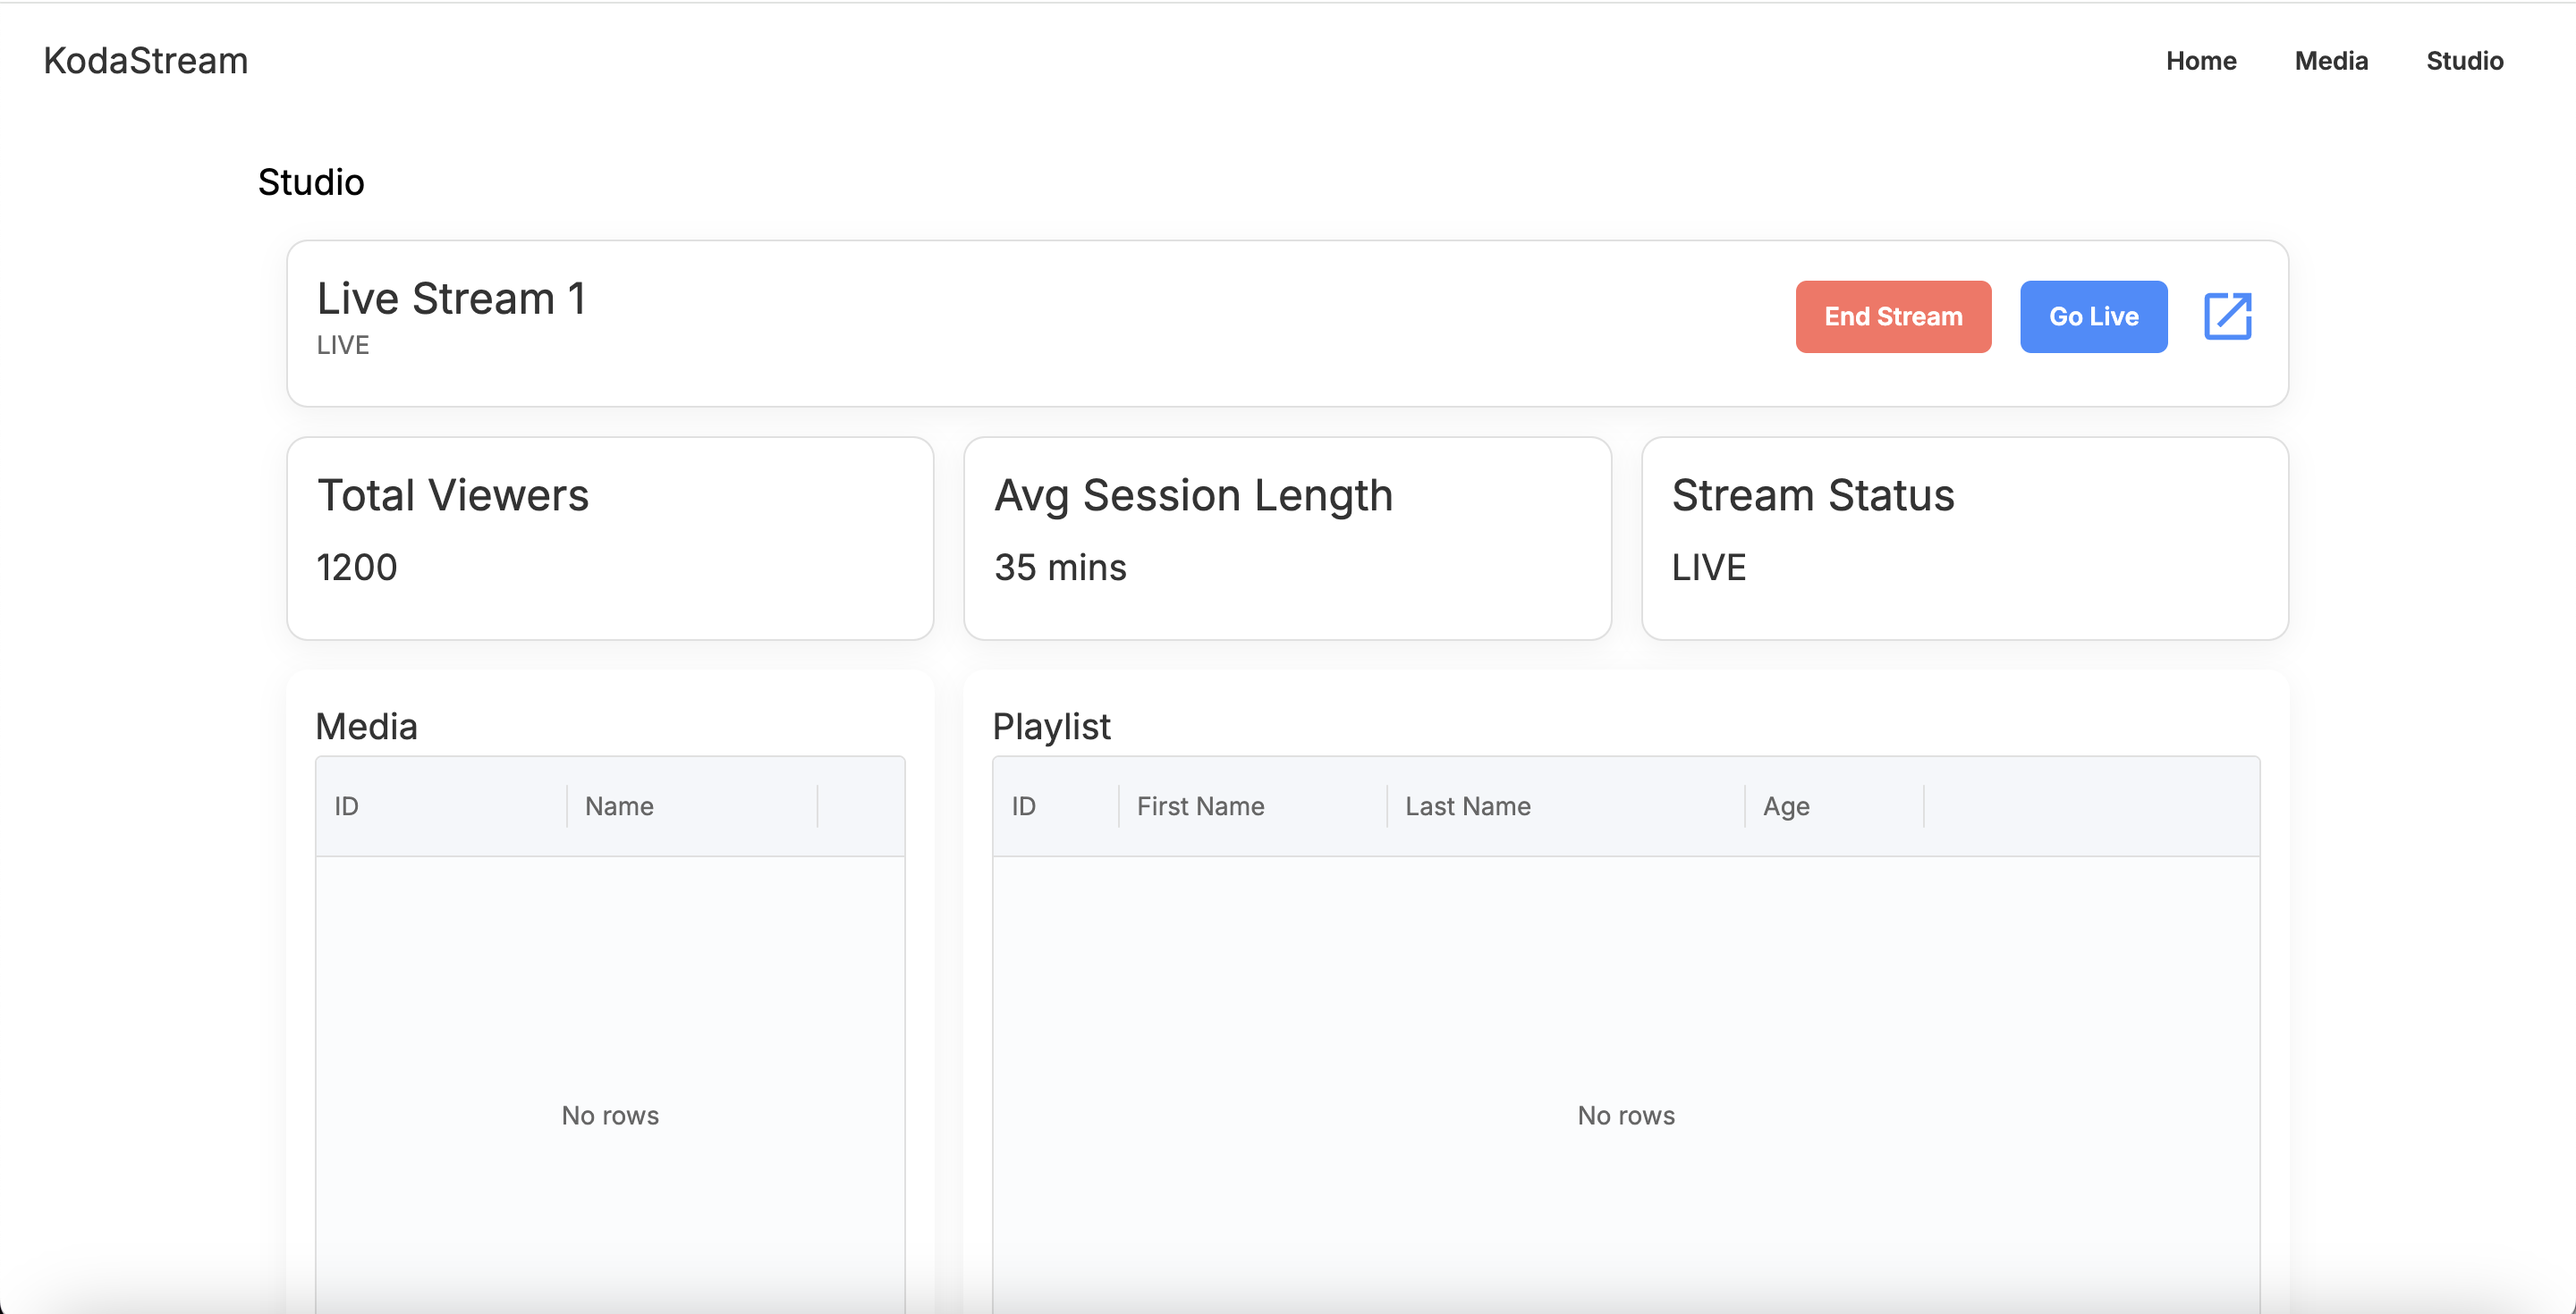
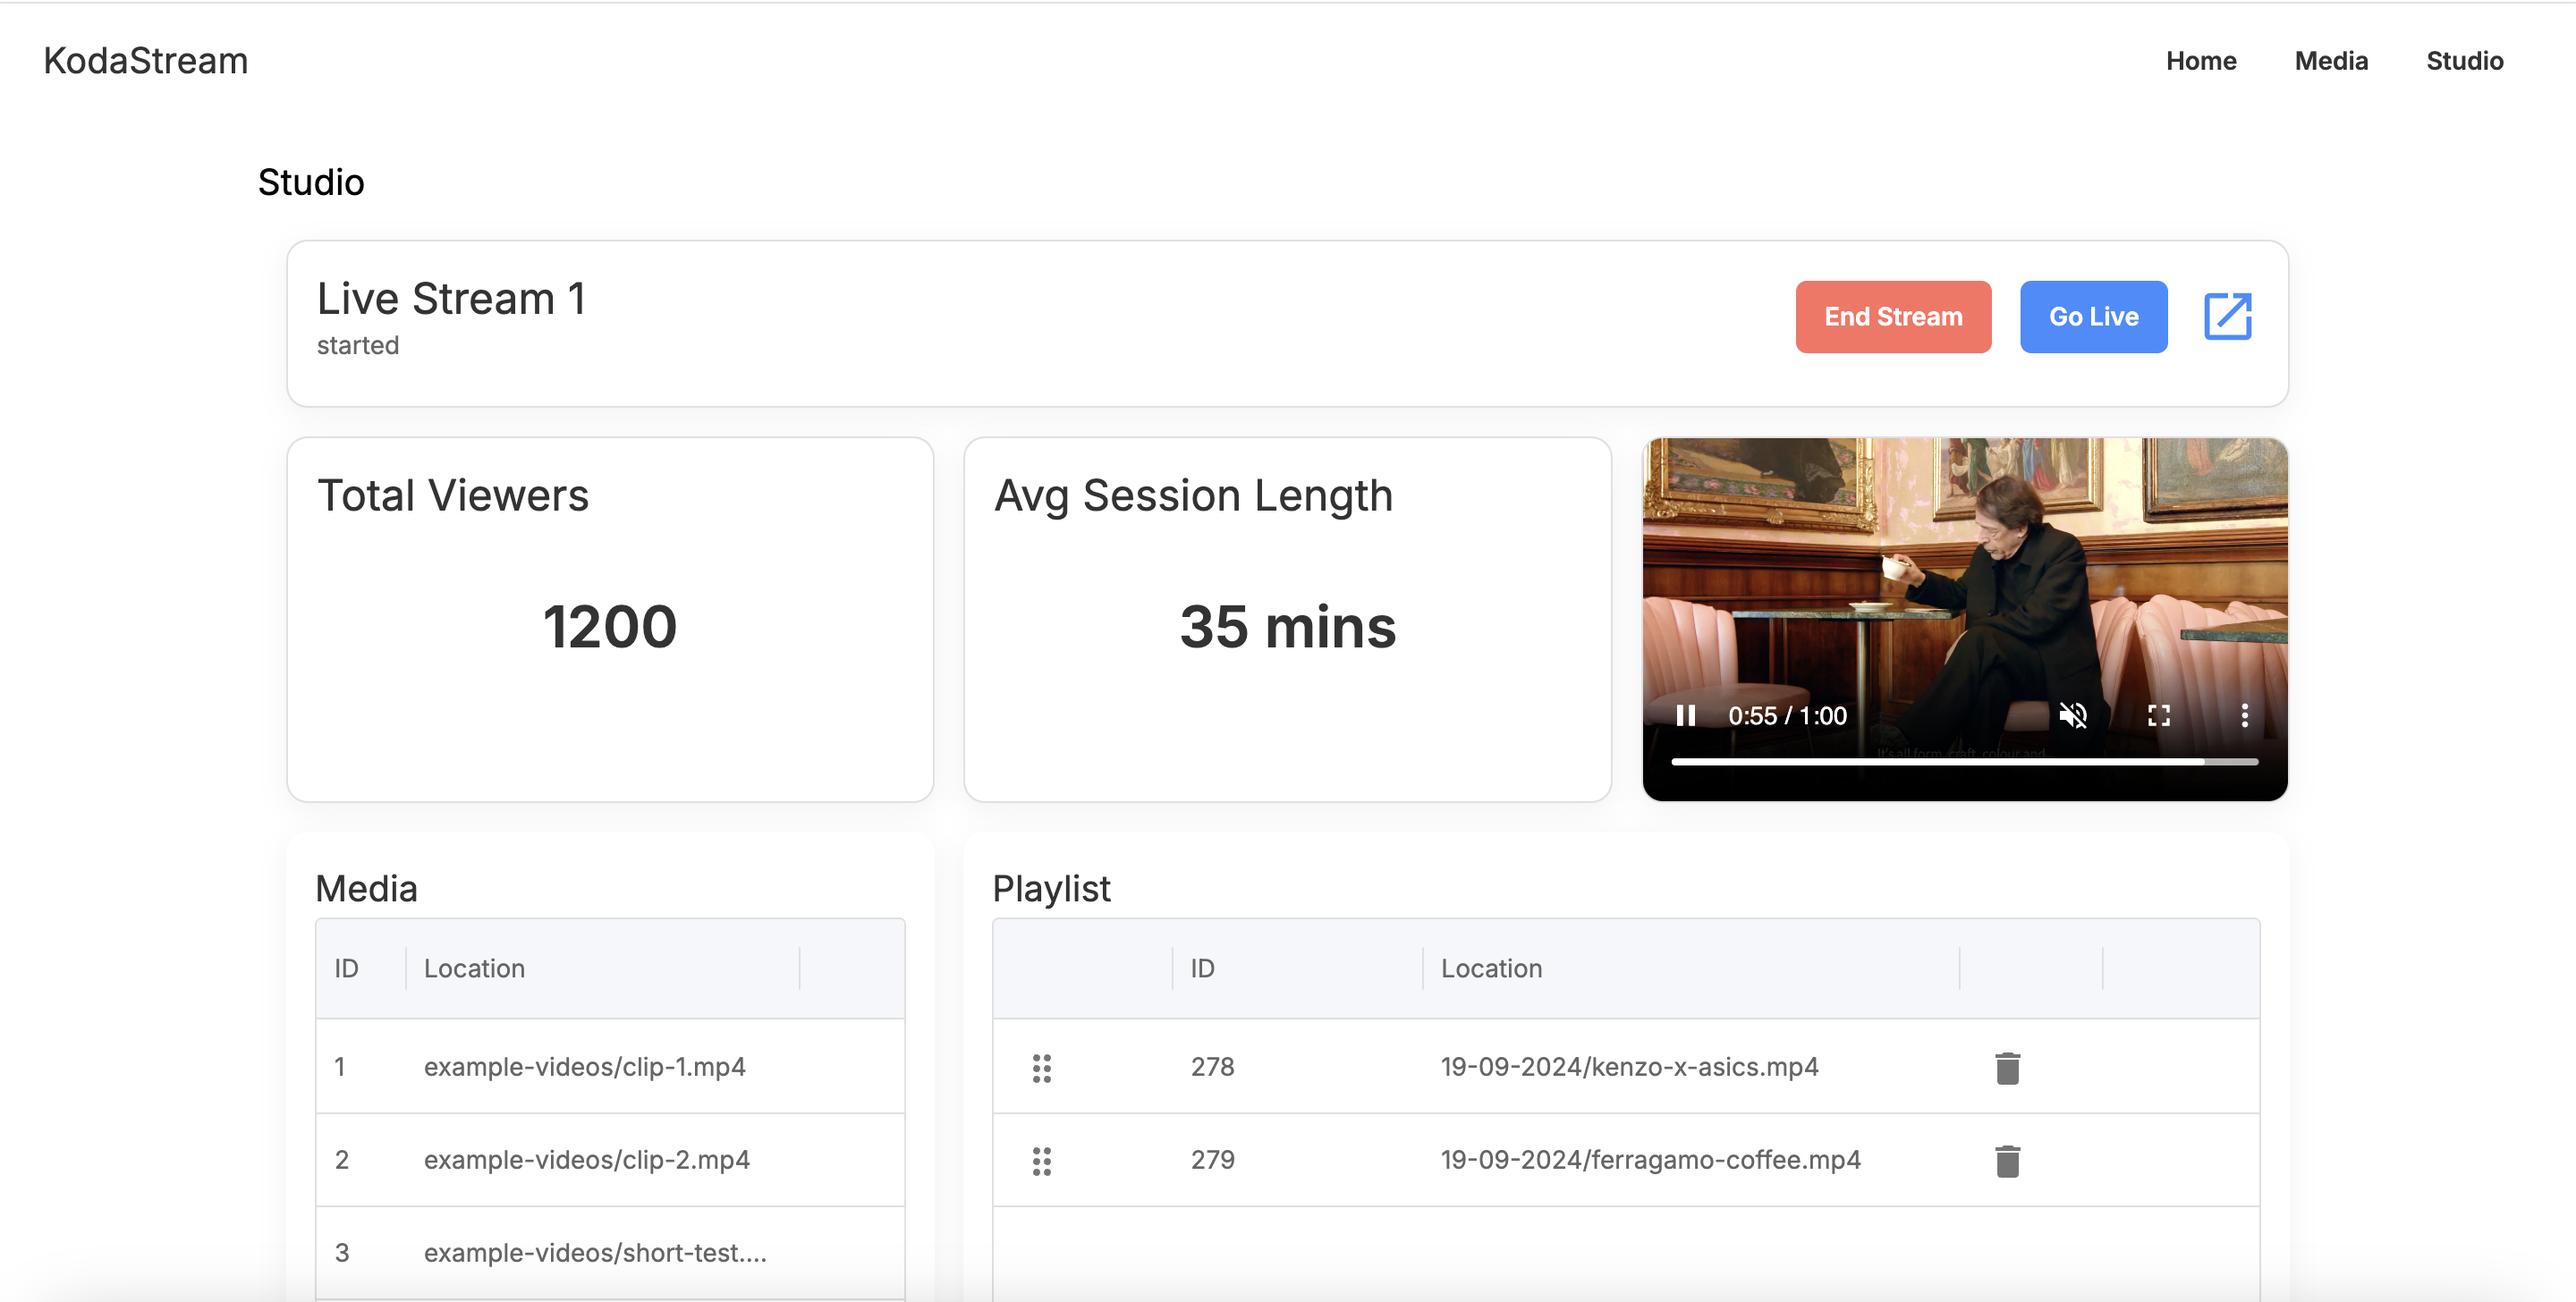
add preview to studio page and update readme screenshot

diff --git a/frontend/src/pages/Studio.tsx b/frontend/src/pages/Studio.tsx
@@ -1,48 +1,37 @@
-import React, { useEffect, useState } from 'react';
+import React, { useEffect, useState, useRef } from 'react';
 import { Grid, Card, CardContent, Typography, Button, Link, Tooltip, Container } from '@mui/material';
 import { useParams } from 'react-router-dom';
-
 import { OpenInNew } from '@mui/icons-material';
 import MediaList from '../components/MediaList';
 import PlayList from '../components/PlayList';
 import { fetchData, postData } from '../services/api';
-
-
+import Preview from '../components/Video';
 
 const Studio: React.FC = () => {
     const [eventData, setEventData] = useState<[]>([]);
     const [mediaData, setMediaData] = useState<[]>([]);
     const [analyticsData, setAnalyticsData] = useState<[]>([]);
     const [playlist, setPlaylist] = useState<[]>([]);
-
-
-
     const [loading, setLoading] = useState<boolean>(true);
-    const { id } = useParams<{ id: string }>();
+    const [videoHeight, setVideoHeight] = useState<number>(0);  // State for storing video height
 
+    const { id } = useParams<{ id: string }>();
     const previewLink = `/preview/${id}`;
 
-
-    console.log('eventData', eventData);
-    console.log('mediaData', mediaData);
-    console.log('analyticsData', analyticsData);
-    console.log('updatedPlaylist', setPlaylist)
-
+    // Ref for video container to measure height
+    const videoRef = useRef<HTMLDivElement | null>(null);
 
     useEffect(() => {
         const getData = async () => {
             try {
-                console.log('url in', `event/${id}`)
                 const eventResult = await fetchData<[]>(`events/${id}`);
                 const mediaResult = await fetchData<[]>(`media`);
                 const analyticsResult = await fetchData<[]>(`events/${id}/analytics`);
 
-
                 setEventData(eventResult.data);
                 setMediaData(mediaResult.data);
                 setAnalyticsData(analyticsResult.data);
-                setPlaylist(eventResult.data.scenes)
-
+                setPlaylist(eventResult.data.scenes);
             } catch (error) {
                 console.error(error);
             } finally {
@@ -51,7 +40,13 @@ const Studio: React.FC = () => {
         };
 
         getData();
-    }, []);
+    }, [id]);
+
+    useEffect(() => {
+        if (videoRef.current) {
+            setVideoHeight(videoRef.current.offsetHeight); // Set height of video component on mount
+        }
+    }, [eventData]);  // Recalculate on eventData change
 
     const handleGoLive = async () => {
         eventData.status = "started";
@@ -60,11 +55,8 @@ const Studio: React.FC = () => {
         try {
             const eventResult = await postData<[], []>(`events/${id}`, eventData);
             setEventData(eventResult.data);
-            console.log(result);
         } catch (error) {
             console.error(error);
-        } finally {
-            console.log('error saving')
         }
     };
 
@@ -74,26 +66,18 @@ const Studio: React.FC = () => {
         try {
             const eventResult = await postData<[], []>(`events/${id}`, eventData);
             setEventData(eventResult.data);
-
-            console.log(result);
         } catch (error) {
             console.error(error);
-        } finally {
-            console.log('error saving')
         }
     };
 
     const addItemToPlaylist = async (item) => {
         const updatedPlaylist = [...playlist, item];
-        const mock = {
-            id: 262,
-            location: "example-videos/clip-1.mp4",
-            metadata: "{\"id\":\"260\",\"title\":\"test data\"}"
-        }
         setPlaylist(updatedPlaylist);
     };
 
     if (loading) return <p>Loading...</p>;
+
     return (
         <Container style={{ marginTop: '20px' }}>
             <Typography variant="h6">Studio</Typography>
@@ -116,7 +100,7 @@ const Studio: React.FC = () => {
                                     onClick={handleStopStream}
                                     variant="contained"
                                     color="secondary"
-                                    style={{ marginRight: '16px' }} // Horizontal spacing between buttons
+                                    style={{ marginRight: '16px' }}
                                 >
                                     End Stream
                                 </Button>
@@ -125,12 +109,11 @@ const Studio: React.FC = () => {
                                     onClick={handleGoLive}
                                     variant="contained"
                                     color="primary"
-                                    style={{ marginRight: '16px' }} // Horizontal spacing between buttons
+                                    style={{ marginRight: '16px' }}
                                 >
                                     Go Live
                                 </Button>
 
-                                {/* Stream Preview Link with an Icon */}
                                 <Tooltip title="Open stream preview in a new tab" arrow>
                                     <Link href={previewLink} target="_blank" rel="noopener" style={{ display: 'flex', alignItems: 'center' }}>
                                         <OpenInNew fontSize="large" color="primary" />
@@ -140,14 +123,35 @@ const Studio: React.FC = () => {
                         </CardContent>
                     </Card>
                 </Grid>
+
                 {/* Total Viewers */}
                 <Grid item xs={4}>
-                    <Card variant="outlined">
-                        <CardContent>
+                    <Card variant="outlined" style={{ height: videoHeight }}>
+                        <CardContent
+                            style={{
+                                display: 'flex',
+                                flexDirection: 'column',
+                                justifyContent: 'flex-start',  // Keep title at the top-left
+                                height: '100%',
+                            }}
+                        >
+                            {/* Title aligned to the left at the top */}
                             <Typography variant="h5" component="div" gutterBottom>
                                 Total Viewers
                             </Typography>
-                            <Typography variant="h6" color="textPrimary">
+
+                            {/* Value centered in remaining space */}
+                            <Typography
+                                variant="h2"
+                                color="textPrimary"
+                                style={{
+                                    fontSize: '2rem',  // Large font size for the value
+                                    fontWeight: 'bold',
+                                    textAlign: 'center',
+                                    flexGrow: 1, // Ensures the value stays centered
+                                    marginTop: '30px', // Push the number to the center vertically
+                                }}
+                            >
                                 {analyticsData?.totalViewers}
                             </Typography>
                         </CardContent>
@@ -156,12 +160,32 @@ const Studio: React.FC = () => {
 
                 {/* Average Session Length */}
                 <Grid item xs={4}>
-                    <Card variant="outlined">
-                        <CardContent>
+                    <Card variant="outlined" style={{ height: videoHeight }}>
+                        <CardContent
+                            style={{
+                                display: 'flex',
+                                flexDirection: 'column',
+                                justifyContent: 'flex-start',  // Keep title at the top-left
+                                height: '100%',
+                            }}
+                        >
+                            {/* Title aligned to the left at the top */}
                             <Typography variant="h5" component="div" gutterBottom>
                                 Avg Session Length
                             </Typography>
-                            <Typography variant="h6" color="textPrimary">
+
+                            {/* Value centered in remaining space */}
+                            <Typography
+                                variant="h2"
+                                color="textPrimary"
+                                style={{
+                                    fontSize: '2rem',  // Large font size for the value
+                                    fontWeight: 'bold',
+                                    textAlign: 'center',
+                                    flexGrow: 1, // Ensures the value stays centered
+                                    marginTop: '30px', // Push the number to the center vertically
+                                }}
+                            >
                                 {analyticsData?.averageSessionLength} mins
                             </Typography>
                         </CardContent>
@@ -171,14 +195,9 @@ const Studio: React.FC = () => {
                 {/* Stream Status */}
                 <Grid item xs={4}>
                     <Card variant="outlined">
-                        <CardContent>
-                            <Typography variant="h5" component="div" gutterBottom>
-                                Engagment Rate
-                            </Typography>
-                            <Typography variant="h6" color="textPrimary">
-                                {analyticsData?.engagementRate}%
-                            </Typography>
-                        </CardContent>
+                        <div ref={videoRef}>
+                            <Preview id={eventData.id} />
+                        </div>
                     </Card>
                 </Grid>
 

diff --git a/frontend/src/components/Video.tsx b/frontend/src/components/Video.tsx
@@ -1,17 +1,14 @@
-
 import React from 'react';
 // import Overlay from './overlay'
 import KodaPlayer from '../koda-player/koda-player';
 
-
 export default function Video({ id }) {
-    const VIDEO_ID = id
+    const VIDEO_ID = id;
     const videoRef = React.useRef(null);
-    const [currentClipsMetaData, setCurrentClipsMetaData] = React.useState(null)
+    const [currentClipsMetaData, setCurrentClipsMetaData] = React.useState(null);
 
     React.useEffect(() => {
-        //setup koda player
-
+        // Setup Koda player
         const player = new KodaPlayer({
             videoElement: videoRef.current,
             videoSource: `/events/${VIDEO_ID}/output.m3u8`,
@@ -21,13 +18,11 @@ export default function Video({ id }) {
             sessionId: "1703778468",
             onMetadataUpdate: (data) => {
                 const decodedJson = player.decodeJson(data);
-
                 setCurrentClipsMetaData(decodedJson);
-                console.log('metadatachange')
-
+                console.log('metadatachange');
             }
         });
-    }, [])
+    }, [VIDEO_ID]);
 
     const playVideo = () => {
         videoRef.current.play();
@@ -37,15 +32,28 @@ export default function Video({ id }) {
         videoRef.current.pause();
     };
 
-
     return (
-        <div className="video-container" >
-            {/* <Overlay currentClipsMetaData={currentClipsMetaData} /> */}
-            {/* <video className="video" src="https://www.w3schools.com/html/mov_bbb.mp4" controls/> */}
-            < video className="video" ref={videoRef} width="100%" controls />
-
-
+        <div className="video-container" style={{
+            position: "relative",
+            width: "100%",
+            paddingTop: "56.25%" // 16:9 aspect ratio (9/16 = 0.5625)
+        }}>
+            {/* The wrapper's height is based on the width, maintaining a 16:9 ratio */}
+            <video
+                autoPlay
+                muted
+                ref={videoRef}
+                className="video"
+                style={{
+                    position: "absolute",
+                    top: 0,
+                    left: 0,
+                    width: "100%",
+                    height: "100%",
+                    objectFit: "cover", // Ensures the video covers the entire container without distortion
+                }}
+                controls
+            />
         </div>
-
     );
 }

diff --git a/frontend/src/GlobalStyles.tsx b/frontend/src/GlobalStyles.tsx
@@ -8,6 +8,7 @@ const GlobalStyles: React.FC = () => (
                 margin: 0; 
                 padding: 0; 
             }
+                
         `}
     />
 );
